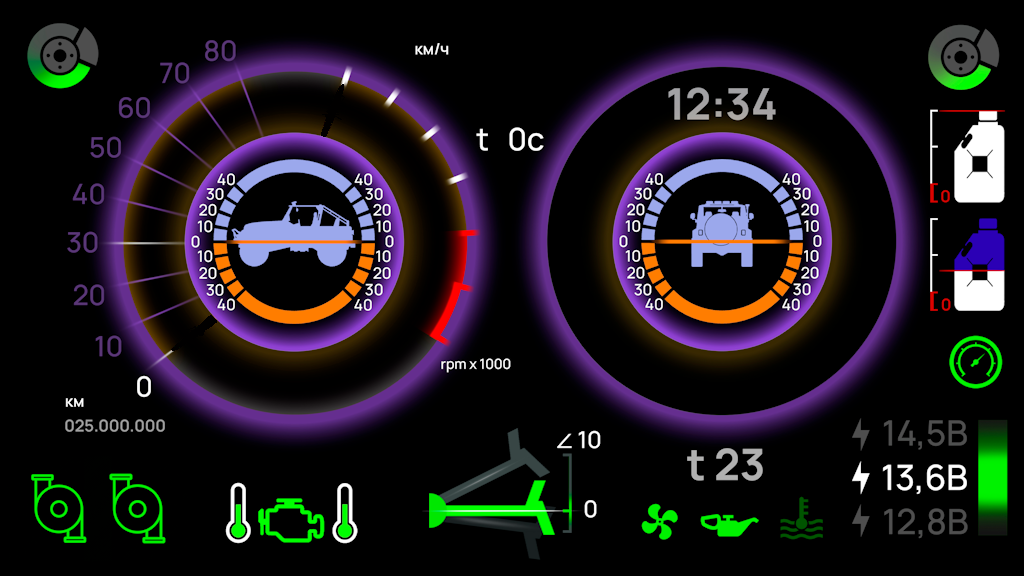
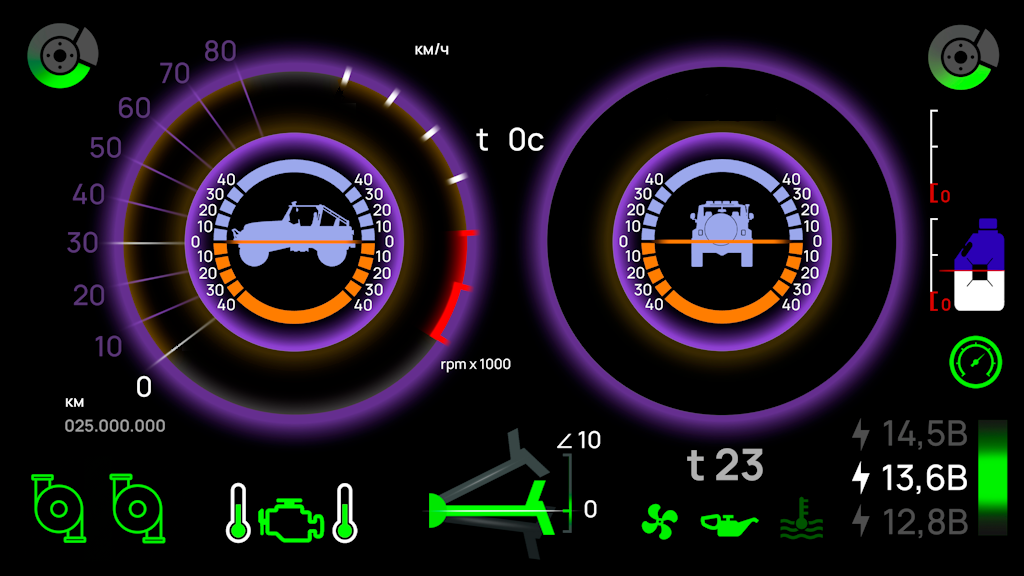
add canister add time

diff --git a/dashboard.py b/dashboard.py
@@ -1,6 +1,7 @@
 import pygame
 import sys
 import time
+import datetime
 
 def scale_image(image, factor):
     """Масштабирует изображение с сохранением пропорций"""
@@ -46,9 +47,22 @@ except:
 # Загрузка стрелки уровня
 try:
     level_img = pygame.image.load("res/level_arrow_1024_576.png").convert_alpha()  # Важно!
-    level_rect = level_img.get_rect(center=(969, 111))
+    #level_rect = level_img.get_rect(center=(969, 111))
 except:
     print("Ошибка: level_arrow_1024_576.png не найден. Создаю красный прямоугольник.")
+
+# Загрузка канистры
+try:
+    canister_img = pygame.image.load("res/canister_1024_576.png").convert_alpha()
+    canister_rect = canister_img.get_rect()
+except:
+    print("Ошибка: canister_1024_576.png не найден. Создаю красный прямоугольник.")
+
+# Загрузка шрифта времени
+main_shrift = 'Arial'
+time_font = pygame.font.SysFont(main_shrift, 48,bold=True)
+# Загрузка шрифта скорости
+font = pygame.font.SysFont(main_shrift, 70,bold=False)
 
 
 angle_rmp = 125  # Начальный угол
@@ -62,8 +76,9 @@ toup = True
 
 toup_rmp = True
 
-# Добавление текста (скорость, RPM)
-font = pygame.font.SysFont('Arial', 80)
+fuel_y = 0
+todown_fuel = True
+
 # Таймеры
 last_update_time = time.time()
 update_interval = 0.25  # Обновлять скорость каждые 0.5 секунды
@@ -103,8 +118,42 @@ while running:
     rotated_rmp = pygame.transform.rotate(rmp_img, -1 * (angle_rmp + 15))  # 15...130
     new_rect = rotated_rmp.get_rect(center=rmp_rect.center)
     screen.blit(rotated_rmp, new_rect.topleft)
+    # Рисуем канистру
+    screen.blit(canister_img, (954, 109))
+    # Рисуем бензин в канистре
+    # Вычисляем высоту бензина
+    fuel_level = 1 - (fuel_y / 94)
+    GASOLINE_COLOR = (43, 0, 181)  # Синий для бензина
+    current_fuel_height = int(canister_img.get_height() * fuel_level) 
+    # 1. Создаём поверхность для бензина
+    
+    gasoline_surface = pygame.Surface(canister_img.get_size(), pygame.SRCALPHA)
+    # 2. Закрашиваем область бензина
+    fuel_area = pygame.Rect(0, canister_img.get_height() - current_fuel_height, 
+                          canister_img.get_width(), current_fuel_height)
+    pygame.draw.rect(gasoline_surface, GASOLINE_COLOR, fuel_area)
+    # 3. Используем канистру как маску - бензин появится только там, где канистра непрозрачна
+    gasoline_surface.blit(canister_img, (0, 0), special_flags=pygame.BLEND_RGBA_MIN)
+
+    # 4. Рисуем бензин на экране
+    screen.blit(gasoline_surface, (954, 109))
+    
 
     # Изменение уровня
+    #fuel_y =  (fuel_y + 1 ) % 94 #MIN_Y + (MAX_Y - MIN_Y) * (1 - fuel_level)
+    if fuel_y < 93 and todown_fuel == True:
+        fuel_y = (fuel_y + 1) % 94
+    elif fuel_y == 0:
+        todown_fuel = True
+    else:
+        fuel_y = (fuel_y - 1) % 94
+        todown_fuel = False
+    screen.blit(level_img, (1024 - 66 - 19 , 110+ fuel_y))  # Просто рисуем в нужной позиции
+
+    #Отображение времени
+    current_time = datetime.datetime.now()
+    time_text = time_font.render(current_time.strftime("%H:%M"), True, (160, 160, 160))
+    screen.blit(time_text, (668, 75))  # Правый верхний угол
 
         # --- Обновление данных (реже, чем кадры) ---
     current_time = time.time()
